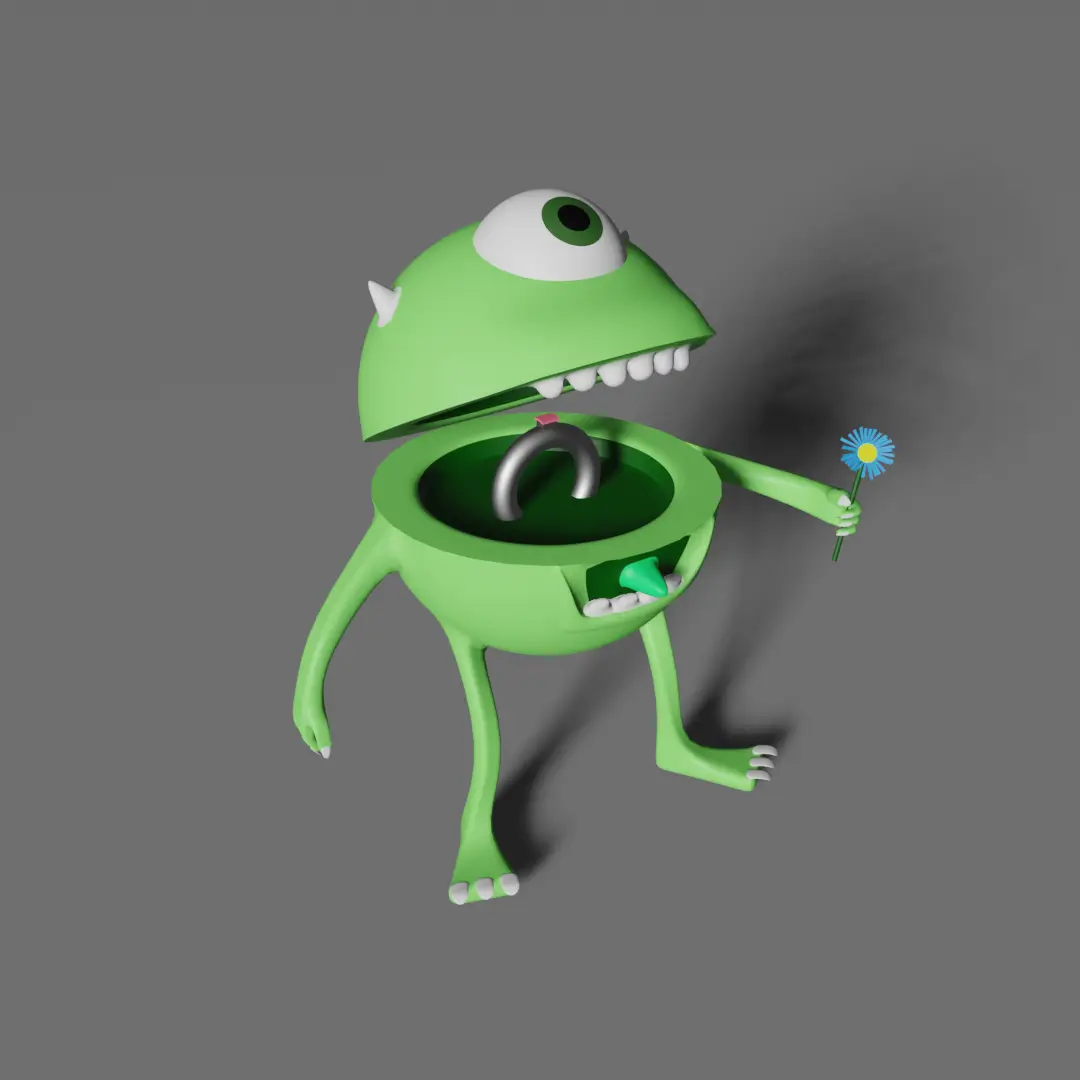
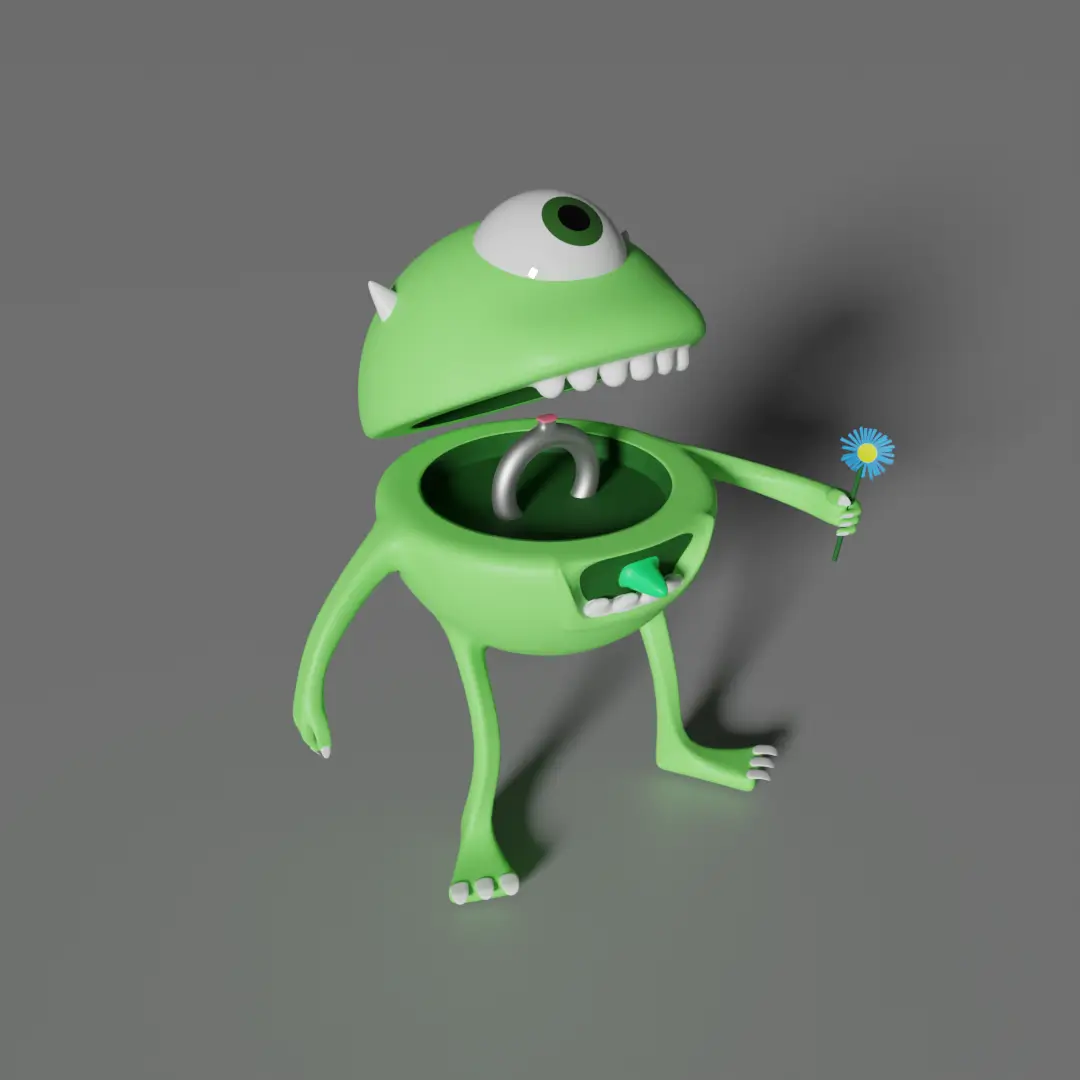
updated mike page to have slider and more details

diff --git a/blenderProjects/mikeWazowski.html b/blenderProjects/mikeWazowski.html
@@ -19,31 +19,99 @@
             </nav>
         </header>
         <main id="project">
-            <img src="../images/BlenderProjects/Mike/mikeWazowskiV1.1.webp" height="720px">
-            <img src="../images/BlenderProjects/Mike/mikeWazowskiV1.1Wireframe.webp" height="720px">
-            <img src="../images/BlenderProjects/Mike/MikeWazowskiSketch.webp" height="720px">
+            <div class="comparison-box">
+                <div class="image-container">
+                    <img
+                        class="image-before slider-image"
+                    src="../images/BlenderProjects/Mike/mikeWazowskiV1.1Viewport.webp"
+                        alt="Viewport"
+                    />
+                    <img
+                        class="image-after slider-image"
+                        src="../images/BlenderProjects/Mike/mikeWazowskiV1.1.webp"
+                        alt="Rendered"
+                    />
+                </div>
+                <input
+                    type="range"
+                    min="0"
+                    max="100"
+                    value="50"
+                    aria-label="Percentage of viewport vs rendered image shown"
+                    class="slider"
+                />
+                <div class="slider-line" aria-hidden="true"></div>
+                <div class="slider-button" aria-hidden="true">
+                    <svg xmlns="http://www.w3.org/2000/svg" width="50" height="50" fill="currentColor" viewBox="0 0 256 256">
+                        /* middle bar */
+                        <line
+                        x1="128"
+                        y1="40"
+                        x2="128"
+                        y2="216"
+                        fill="none"
+                        stroke="currentColor"
+                        stroke-width="16"
+                        ></line>
+                        /* left arrow */
+                        <line
+                        x1="56"
+                        y1="128"
+                        x2="106"
+                        y2="128"
+                        fill="none"
+                        stroke="currentColor"
+                        stroke-width="16"
+                        ></line>
+                        <polyline
+                        points="48 160 16 128 48 96"
+                        fill="none"
+                        stroke="currentColor"
+                        stroke-width="16"
+                        ></polyline>
+                        /* right arrow */
+                        <line
+                        x1="150"
+                        y1="128"
+                        x2="200"
+                        y2="128"
+                        fill="none"
+                        stroke="currentColor"
+                        stroke-width="16"
+                        ></line>
+                        <polyline
+                        points="208 96 240 128 208 160"
+                        fill="none"
+                        stroke="currentColor"
+                        stroke-width="16"
+                        ></polyline>
+                    </svg>
+                </div>
+                <p>Use the slider to compare the viewport and rendered image!</p>
+            </div>
+            <script src="../comparisonSlider.js"></script>
             <div class="info">
-                <h2>Mike Wazowski</h2>
-                <p>
+                <h2>Mike Wazowski | Project Type: Model | Type: Character</h2>
+                <h3>Info</h3>
                     I created this model based on a friend's drawing of Mike Wazowski from Pixar's Monsters Inc. 
                     <br>>>> V1.0 was made in May 2023 in around 2 hours, after the friend sent the sketch pictured below into our uni group chat 
                     and I wondered how easy it would be to remake in Blender. 
                     <br>>>> V1.1 After gaining more experience with Blender I recently (March 2024) improved apon 
                     the model. To remove the Harsh edges I used the subsurface division modifier as well as shade auto-smooth. 
-                    <br><br>
-                    <b>Specs:</b>
-                    <br>>>> Software: Blender
-                    <br>>>> Final Render: EEVEE
+                <h3>What I learned</h3>
+                    >>> Working with subsurface division modifier while attempting to maintain sharpness
+                    <h3>Specs:</h3>
+                    >>> Software: Blender
+                    <br>>>> Final Render: Cycles
                     <br>>>> Tris: 345k 
-                    <br><br>
-                    <b>Potential improvements:</b>
-                    <br>>>> rigging the model to allow for the mouth to open and close
+                <h3>Potential improvements:</h3>
+                    >>> Rigging the model to allow for the mouth to open and close
                     <br>>>> Optimise tri count
-                </p>
             </div>
             <div>
                 <h3>Process images</h3>
                 <img src="../images/BlenderProjects/Mike/mikeWazowskiV1.0.webp" height="480px">V1.0</img>
+                <img src="../images/BlenderProjects/Mike/MikeWazowskiSketch.webp" height="720px">original sketch</img>
             </div>
         </main>
         <footer>
